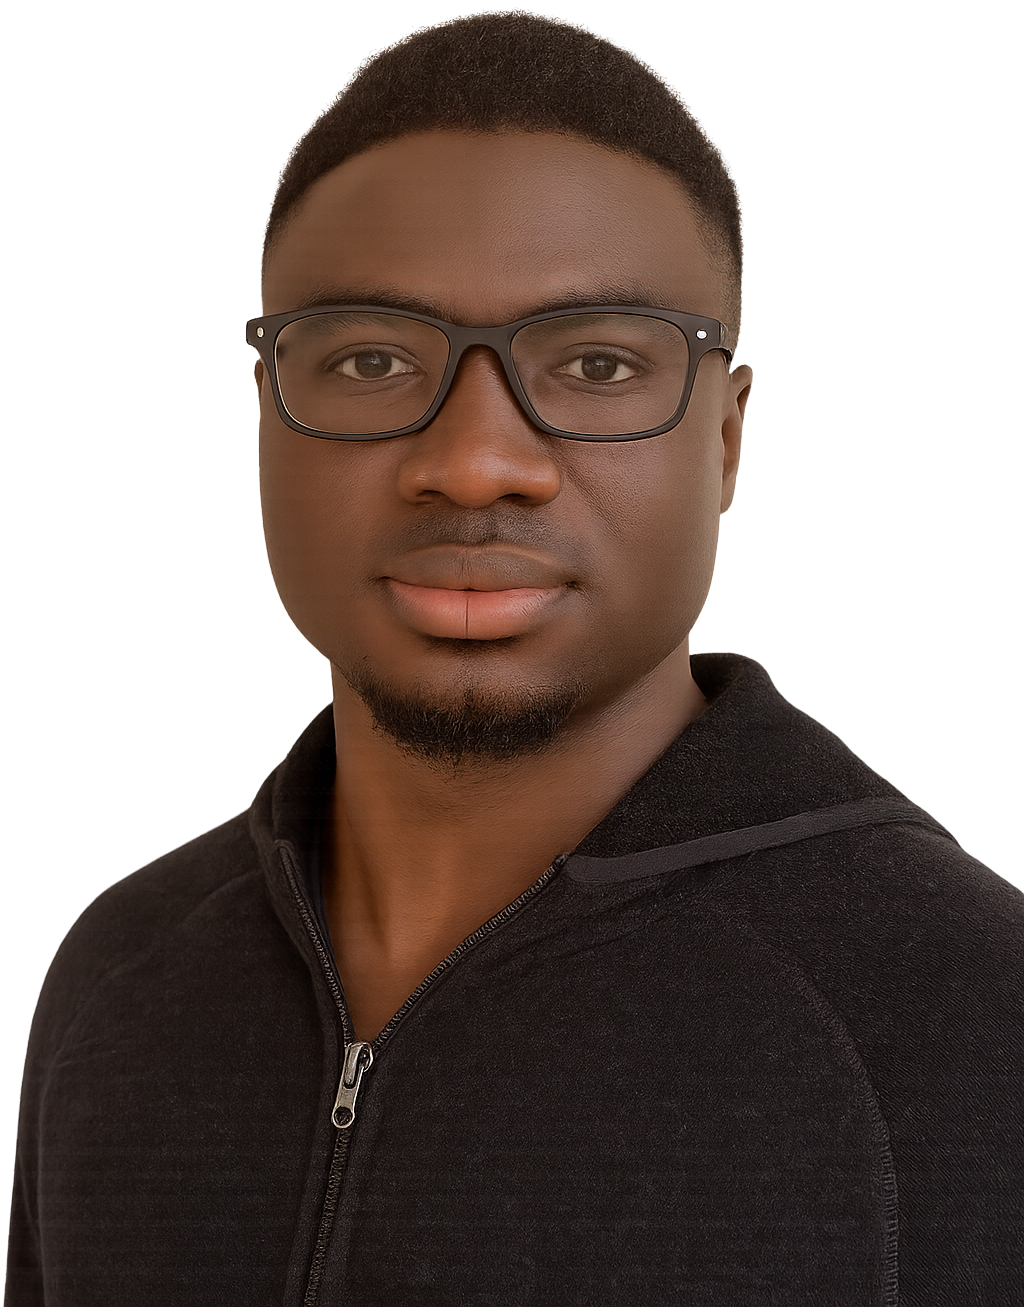
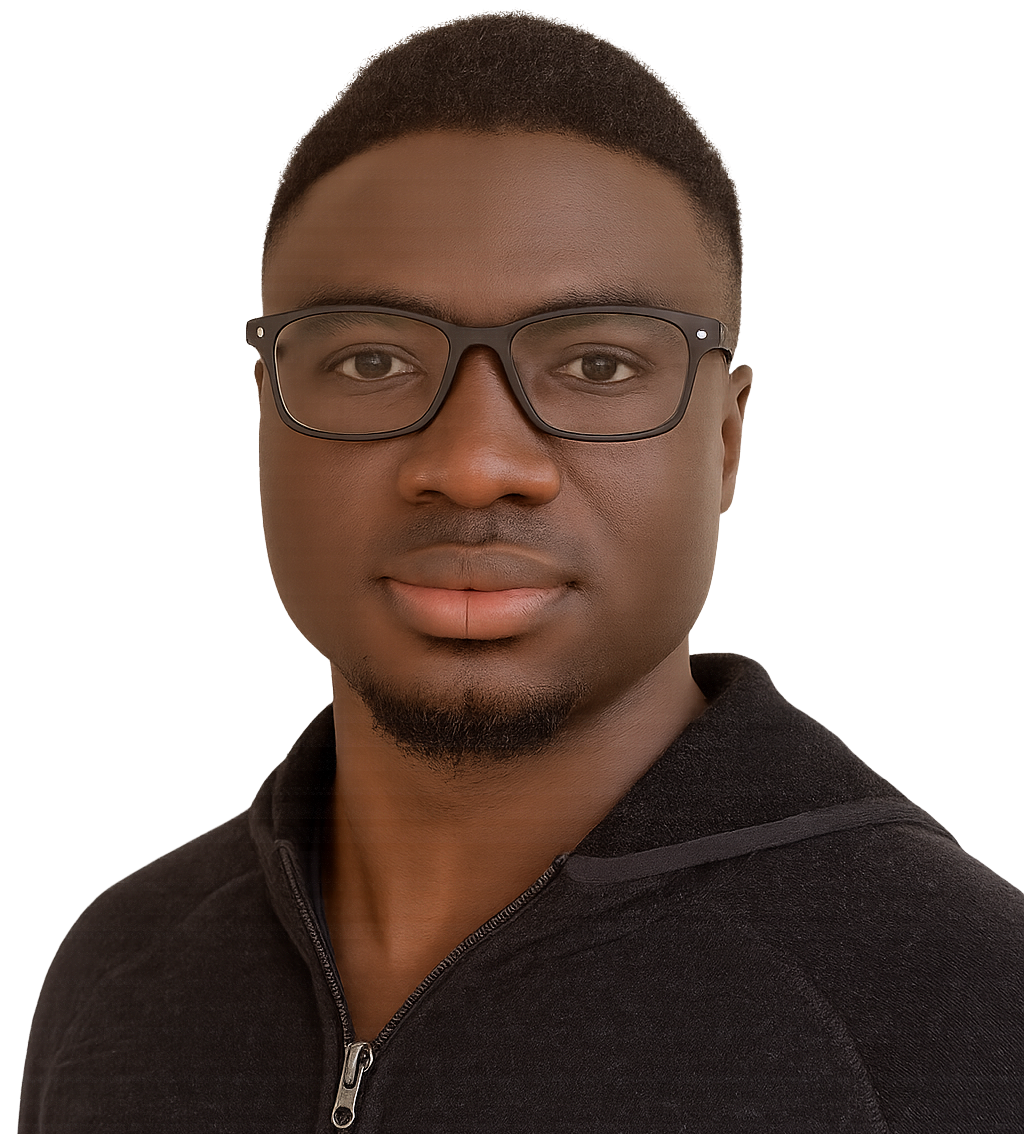
Update About me.

Changed region(s): [[0.0, 0.0, 1.0, 1.0]]

diff --git a/src/page-sections/homepage-sections/About.module.css b/src/page-sections/homepage-sections/About.module.css
@@ -4,8 +4,12 @@
 .about-section{
     width: 100%;
     background: #ffffff;
-    overflow: hidden;
-    max-height: 592px;
+    /* overflow: hidden; */
+}
+
+.about-section > div {
+    align-items: start;
+
 }
 
 .about-section .text-div{
@@ -40,18 +44,38 @@
     color: #5E3BEE;
 }
 
+
+.about-section .main-img-div-wrapper{
+    width: auto;
+    max-width: 592px;
+    height: auto;
+    max-height: 600px;
+    overflow: hidden;
+    flex: 1;
+    padding: 0;
+    border-radius: 10px;
+    background-color: white;
+}
+
 .about-section .img-div {
     position: relative;
     overflow: hidden;
-    align-self: flex-start;
+    /* align-self: flex-start; */
     display: flex;
     justify-content: center;
     height: auto;
     width: auto;
-    max-width: 592px;
+    max-width: 100%;
     max-height: 100%;
-    padding: 0 1rem;
-    flex: 1;
+    padding: 0;
+    border-radius: 10px;
+    background-color: white;
+    /* width: 100%; */
+}
+
+.about-section .img-div img{
+    height: auto;
+    max-height: max-content;
 }
 
 @media (max-width: 1024px) {
@@ -68,6 +92,7 @@
     
     .about-section > div {
         flex-direction: column;
+        align-items: center;
     }
 
     .about-section .text-div{
@@ -83,5 +108,22 @@
 
     .about-section .text-div h1{
         font-size: 28px;
+    }
+}
+
+@media (max-width: 640px) {
+    .about-section .main-img-div-wrapper{
+        max-height: 550px;
+    }
+}
+@media (max-width: 400px) {
+    .about-section .main-img-div-wrapper{
+        max-height: 400px;
+    }
+}
+
+@media (max-width: 350px) {
+    .about-section .main-img-div-wrapper{
+        max-height: 300px;
     }
 }

diff --git a/src/page-sections/homepage-sections/About.tsx b/src/page-sections/homepage-sections/About.tsx
@@ -8,8 +8,10 @@ const About: FC = () => {
   return (
     <section id="about-me" className={classes[`about-section`]}>
       <SectionDirectDiv>
-        <div className={classes["img-div"]}>
-          <ImageWrapper sourceUrl={photo} alternativeText={"photo"} />
+        <div className={classes["main-img-div-wrapper"]}>
+          <div className={classes["img-div"]}>
+            <ImageWrapper sourceUrl={photo} alternativeText={"photo"} />
+          </div>
         </div>
         <div className={classes["text-div"]}>
           <h1>About Me</h1>
@@ -38,8 +40,9 @@ const About: FC = () => {
           </p>
 
           <p>
-          I believe that every website has a story to tell: let's collaborate and bring your vision to life with a website that
-            not only performs but also tells your story effectively.
+            I believe that every website has a story to tell: let's collaborate
+            and bring your vision to life with a website that not only performs
+            but also tells your story effectively.
           </p>
         </div>
       </SectionDirectDiv>
